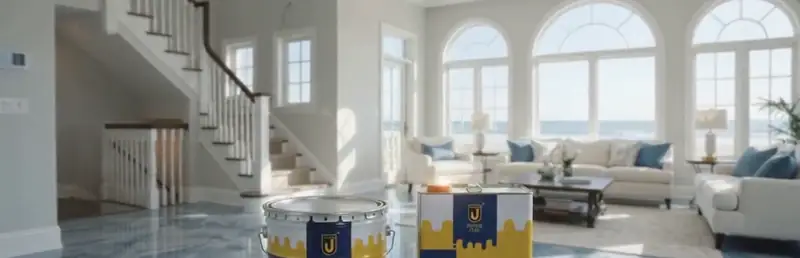
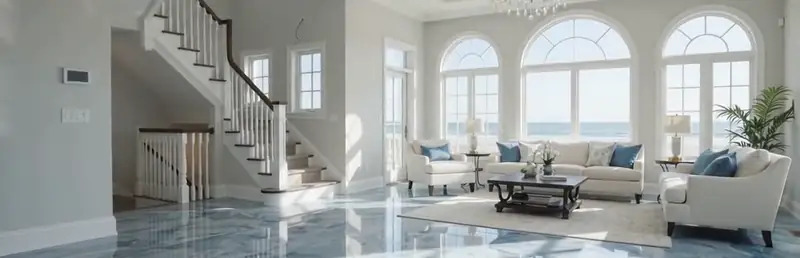
Images et fidélité aux maquettes : design repris à l'identique avec la 3D en ajout, catalogue fusionné et médias importables
Vérifié : back-end 1445 tests sur PostgreSQL 16, site 687, tableau de bord 506 ; comparaison page par page avec les maquettes ;
parcours dans un vrai navigateur (réduction des animations, clavier, téléphone).

Claude-Session: https://claude.ai/code/session_01Mhy2g7yiGnzpw4o1NQJZWS

diff --git a/frontend/site/src/styles/maquette.css b/frontend/site/src/styles/maquette.css
@@ -112,9 +112,9 @@
 /* ---------- Bandeau des pages intérieures : fenêtre sur la scène du salon ---------- */
 .m-bandeau {
   position: relative; height: 440px; display: grid; place-items: center; text-align: center; color: var(--blanc);
-  overflow: hidden; margin-top: calc(var(--hauteur-entete) * -1);
+  overflow: hidden;
 }
-.m-bandeau::after { content: ''; position: absolute; inset: 0; background: rgba(14, 42, 56, 0.32); }
+.m-bandeau::after { content: ''; position: absolute; inset: 0; background: rgba(14, 42, 56, 0.5); }
 .m-bandeau-fond { position: absolute; inset: 0; width: 100%; height: 100%; object-fit: cover; object-position: center; }
 .m-bandeau > div { position: relative; z-index: 1; padding-top: 60px; }
 .m-bandeau h1 { font-size: 72px; font-style: italic; text-shadow: 0 2px 24px rgba(8, 24, 32, 0.5); }
@@ -153,7 +153,7 @@
 /* Image du produit agrandie, floutée une fois pour toutes (jamais d'animation de `filter`) et teintée sombre. */
 .m-fiche-fond { position: absolute; inset: 0; overflow: hidden; }
 .m-fiche-fond img, .m-fiche-fond .neutre {
-  position: absolute; inset: 0; width: 100%; height: 100%; object-fit: cover; filter: blur(18px) brightness(0.55); transform: scale(1.1);
+  position: absolute; inset: 0; width: 100%; height: 100%; object-fit: cover; filter: blur(18px) brightness(0.45); transform: scale(1.1);
 }
 .m-fiche-fond .neutre { background: linear-gradient(135deg, #0e2a38, #2c6a78); filter: none; }
 .m-fiche .m-conteneur { position: relative; display: grid; grid-template-columns: 1fr 1fr; gap: 70px; align-items: center; padding: 140px 0 90px; }
@@ -318,8 +318,8 @@
   .m-fond-flou { background: var(--fond); }
   .m-bandeau h1 { font-size: 34px; line-height: 1.3; font-weight: 500; color: var(--bleu); text-shadow: none; }
   .m-bandeau p { margin: 0; max-width: none; font-family: var(--police-texte); font-size: 16px; color: var(--encre-2); text-shadow: none; }
-  .m-fenetre-tel { position: relative; height: 220px; overflow: hidden; color: var(--blanc); display: grid; place-items: center; text-align: center; padding: 20px; }
-  .m-fenetre-tel::after { content: ''; position: absolute; inset: 0; background: rgba(14, 42, 56, 0.38); }
+  .m-fenetre-tel { position: relative; height: 220px; background: #0E2A38 url('/media/accueil/bandeau-maison-800.webp') center / cover no-repeat; overflow: hidden; color: var(--blanc); display: grid; place-items: center; text-align: center; padding: 20px; }
+  .m-fenetre-tel::after { content: ''; position: absolute; inset: 0; background: rgba(14, 42, 56, 0.55); }
   .m-fenetre-tel p { position: relative; z-index: 1; margin: 0; font-family: var(--police-titre); font-size: 28px; line-height: 1.2; }
   .m-catalogue { display: block; padding: 24px 20px; }
   .m-filtres { position: static; gap: 14px; margin-bottom: 8px; }
@@ -339,6 +339,7 @@
   .m-video-demo { border-radius: 0; box-shadow: none; }
   .m-compte { display: block; min-height: calc(100dvh - var(--hauteur-onglets)); background: var(--fond); }
   .m-compte-visuel { min-height: 0; height: 210px; padding: 14px 20px 20px; }
+  .m-compte-visuel .fenetre { background: #0E2A38 url('/media/accueil/bandeau-maison-800.webp') center / cover no-repeat; }
   .m-compte-visuel::after { background: linear-gradient(180deg, rgba(8, 24, 32, 0.6) 0%, rgba(8, 24, 32, 0.2) 40%, rgba(8, 24, 32, 0.82) 100%); }
   .m-compte-visuel h1, .m-compte-visuel p.titre { font-size: 32px; line-height: 1.1; font-weight: 500; }
   .m-compte-formes { display: block; padding: 12px 20px 40px; background: var(--fond); }

diff --git a/frontend/site/src/modules/catalogue/CataloguePage.test.jsx b/frontend/site/src/modules/catalogue/CataloguePage.test.jsx
@@ -78,7 +78,7 @@ describe('CataloguePage', () => {
 
     await waitFor(() => {
       const derniers = parametresDes(fetch, '/api/catalogue/produits/').at(-1);
-      expect(Object.fromEntries(derniers)).toEqual({ usage: 'industrie', famille: 'primaires', search: 'YD-500', taille: '12' });
+      expect(Object.fromEntries(derniers)).toEqual({ usage: 'industrie', famille: 'primaires', search: 'YD-500', taille: '10' });
     });
   });
 
@@ -89,11 +89,11 @@ describe('CataloguePage', () => {
     });
     rendre('/catalogue?famille=sols-autolissants&usage=piscine');
     await screen.findByRole('link', { name: /Produit 1/ });
-    expect(Object.fromEntries(parametresDes(fetch, '/api/catalogue/produits/')[0])).toEqual({ famille: 'sols-autolissants', taille: '12' });
+    expect(Object.fromEntries(parametresDes(fetch, '/api/catalogue/produits/')[0])).toEqual({ famille: 'sols-autolissants', taille: '10' });
     expect(await screen.findByText('Sols lisses et continus.')).toBeInTheDocument();
   });
 
-  it('pagination numérotée de la maquette : 12 produits par page, « Suivant → », adresse ?page=', async () => {
+  it('pagination numérotée de la maquette : 10 produits par page, « Suivant → », adresse ?page=', async () => {
     const fetch = simulerApi({
       'GET /api/catalogue/familles/': reponse(200, FAMILLES),
       'GET /api/catalogue/produits/': (corps, init, url) => (url.searchParams.get('page') === '2'
@@ -102,7 +102,7 @@ describe('CataloguePage', () => {
     });
     rendre();
     await screen.findByRole('link', { name: /Produit 2/ });
-    expect(Object.fromEntries(parametresDes(fetch, '/api/catalogue/produits/')[0])).toEqual({ taille: '12' });
+    expect(Object.fromEntries(parametresDes(fetch, '/api/catalogue/produits/')[0])).toEqual({ taille: '10' });
     const pagination = screen.getByRole('navigation', { name: 'Pages du catalogue' });
     expect(within(pagination).getByRole('link', { name: 'Page 1' })).toHaveAttribute('aria-current', 'page');
     expect(within(pagination).getAllByRole('link').map((l) => l.textContent)).toEqual(['1', '2', 'Suivant →']);

diff --git a/frontend/site/src/styles/maquetteCss.test.js b/frontend/site/src/styles/maquetteCss.test.js
@@ -1,0 +1,37 @@
+// Fidélité aux maquettes : garde-fous lus dans le CSS réel (jsdom ne calcule pas la mise en page).
+import { readFileSync } from 'node:fs';
+
+import { TAILLE_PAGE } from '@/modules/catalogue/useCatalogue.js';
+
+const css = readFileSync('src/styles/maquette.css', 'utf8');
+const bloc = (selecteur) => new RegExp(`${selecteur.replace(/[.*+?^${}()|[\]\\]/g, '\\$&')} \\{([^}]*)\\}`).exec(css)?.[1] ?? '';
+
+describe('maquette.css : bandeau et fiche', () => {
+  it('le bandeau fait 440 px sous l\'en-tête fixe, sans marge négative (sinon 84 px de photo sont coupés)', () => {
+    const b = bloc('.m-bandeau');
+    expect(b).toMatch(/height: 440px/);
+    expect(b).not.toMatch(/margin-top/);
+  });
+
+  it('le catalogue demande 10 produits par page comme la maquette', () => {
+    expect(TAILLE_PAGE).toBe(10);
+  });
+
+  it('fond de la fiche produit : image floutée une fois, jamais animée, assez sombre pour du texte blanc', () => {
+    const luminosite = Number(/blur\(\d+px\) brightness\(([\d.]+)\)/.exec(css)?.[1]);
+    expect(luminosite).toBeGreaterThan(0);
+    expect(luminosite).toBeLessThanOrEqual(0.5);
+    expect(css).not.toMatch(/@keyframes[^{]*\{[^]*?filter:/);
+  });
+
+  it('bandeau et fenêtre téléphone : voile assez foncé pour le texte blanc (contraste mesuré 3,5 et 4)', () => {
+    const alpha = (re) => Number(re.exec(css)?.[1]);
+    expect(alpha(/\.m-bandeau::after \{[^}]*rgba\(14, 42, 56, ([\d.]+)\)/)).toBeGreaterThanOrEqual(0.5);
+    expect(alpha(/\.m-fenetre-tel::after \{[^}]*rgba\(14, 42, 56, ([\d.]+)\)/)).toBeGreaterThanOrEqual(0.5);
+  });
+
+  it('téléphone : la fenêtre du catalogue et celle de l\'écran de compte montrent le salon net (image propre)', () => {
+    expect(bloc('.m-fenetre-tel')).toMatch(/bandeau-maison-800\.webp/);
+    expect(css).toMatch(/\.m-compte-visuel \.fenetre \{[^}]*bandeau-maison-800\.webp/);
+  });
+});

diff --git a/frontend/site/src/styles/impression.test.js b/frontend/site/src/styles/impression.test.js
@@ -1,0 +1,16 @@
+// L'impression ne doit jamais laisser de contenu masqué par les animations de profondeur.
+import { readFileSync } from 'node:fs';
+import { describe, expect, it } from 'vitest';
+
+const css = readFileSync('src/styles/profondeur.css', 'utf8');
+
+describe('profondeur.css : impression', () => {
+  it("coupe les animations liées au défilement à l'impression", () => {
+    const bloc = css.slice(css.lastIndexOf('@media print'));
+    expect(bloc).toMatch(/\.p3d\b/);
+    expect(bloc).toMatch(/\.p3d-grand/);
+    expect(bloc).toMatch(/\.m-bandeau-fond/);
+    expect(bloc).toMatch(/animation:\s*none\s*!important/);
+    expect(bloc).toMatch(/opacity:\s*1\s*!important/);
+  });
+});

diff --git a/frontend/site/src/modules/catalogue/composants/Filtres.test.jsx b/frontend/site/src/modules/catalogue/composants/Filtres.test.jsx
@@ -90,7 +90,7 @@ describe('Catalogue : langue et requêtes', () => {
     await waitFor(() => expect(emplacement()).toBe('/catalogue?lang=fr&usage=exterieur&q=terrazzo'));
     await waitFor(() => {
       const p = parametresDes(fetch, '/api/catalogue/produits/').at(-1);
-      expect(Object.fromEntries(p)).toEqual({ usage: 'exterieur', search: 'terrazzo', taille: '12' });
+      expect(Object.fromEntries(p)).toEqual({ usage: 'exterieur', search: 'terrazzo', taille: '10' });
     });
     // « Tous les sols » retire le critère de l'adresse
     await u.click(within(screen.getByRole('group', { name: 'Pour quel sol ?' })).getByRole('button', { name: 'Tous les sols' }));

diff --git a/frontend/site/src/modules/catalogue/useCatalogue.js b/frontend/site/src/modules/catalogue/useCatalogue.js
@@ -10,7 +10,7 @@ import useDonnees from '@/app/useDonnees.js';
 import * as catalogue from './api.js';
 import { estUsage } from './usages.js';
 
-export const TAILLE_PAGE = 12; // 3 colonnes de grandes images carrées
+export const TAILLE_PAGE = 10; // 3 colonnes de grandes images carrées
 
 /** Critères de l'adresse, nettoyés (un usage inconnu est ignoré, une page invalide vaut 1). */
 export function lireCriteres(parametres) {

diff --git a/frontend/site/src/styles/profondeur.css b/frontend/site/src/styles/profondeur.css
@@ -180,3 +180,12 @@
   }
 }
 @keyframes bandeau-zoom { from { transform: scale(1); } to { transform: scale(1.06); } }
+
+/* Impression et enregistrement en PDF : aucun bloc ne reste caché par une animation liée au défilement. */
+@media print {
+  html .p3d, html .p3d-grand, html .p3d-sortie, html .m-bandeau-fond {
+    animation: none !important;
+    opacity: 1 !important;
+    transform: none !important;
+  }
+}

diff --git a/frontend/site/src/modules/commandes/Commandes.module.css b/frontend/site/src/modules/commandes/Commandes.module.css
@@ -94,3 +94,5 @@
 @media (max-width: 520px) {
   .deuxColonnes { grid-template-columns: 1fr; }
 }
+
+@media (max-width: 900px) { .filtreEtape { margin: 0 20px 14px; } }

diff --git a/docs/taches/images-et-entree-3d.md b/docs/taches/images-et-entree-3d.md
@@ -22,8 +22,8 @@ Branche `images` (depuis `prototype-2`). Décisions : `docs/decisions/11-entree-
 
 ## Tâches
 
-- [ ] Back-end (`backend` + `backend-testeur`) : commande `importer_medias_reference` (voir ci-dessous).
-- [ ] Site (`site` + `site-testeur`) : habillage d'après les maquettes et entrée 3D au défilement.
+- [x] Back-end (`backend` + `backend-testeur`) : commande `importer_medias_reference` (voir ci-dessous) ; catalogue fusionné (16 produits) et 6 images de produits. VALIDÉ.
+- [x] Site (`site` + `site-testeur`) : design fidèle aux maquettes (pages, textes) et entrée 3D au défilement. VALIDÉ.
 
 ### Commande `python manage.py importer_medias_reference`
 
@@ -52,3 +52,13 @@ disposition uniquement) et de `docs/contexte-projet.md` de la branche `prototype
 - Bandeaux photo `bandeau-maison-*` passant sous la barre de navigation (catalogue, réalisations, commandes).
 - Les textes entre crochets des maquettes restent des emplacements : sans donnée, le site affiche « Prix sur devis » ou
   masque le bloc, jamais une valeur inventée.
+
+## État au 22 octobre 2026
+
+- Tests : back-end 1445 (PostgreSQL 16), site 687, tableau de bord 506.
+- Pour charger les médias et le catalogue sur une base neuve : `python manage.py charger_catalogue_reference` puis
+  `python manage.py importer_medias_reference` (idempotents). En production : à lancer une fois sur Railway.
+- **Écarts connus avec les maquettes** : connexion par e-mail seulement (la maquette dit « Téléphone ou e-mail ») et pas de
+  « Mot de passe oublié ? » (aucune route de réinitialisation) ; sections « Témoignages » et cartes de chantier de l'accueil
+  absentes faute de données réelles ; 4 produits sans image (sable coloré, mate, anticorrosion, sol à motifs) ; familles et usages
+  des 7 produits de la maquette à valider par l'équipe.
